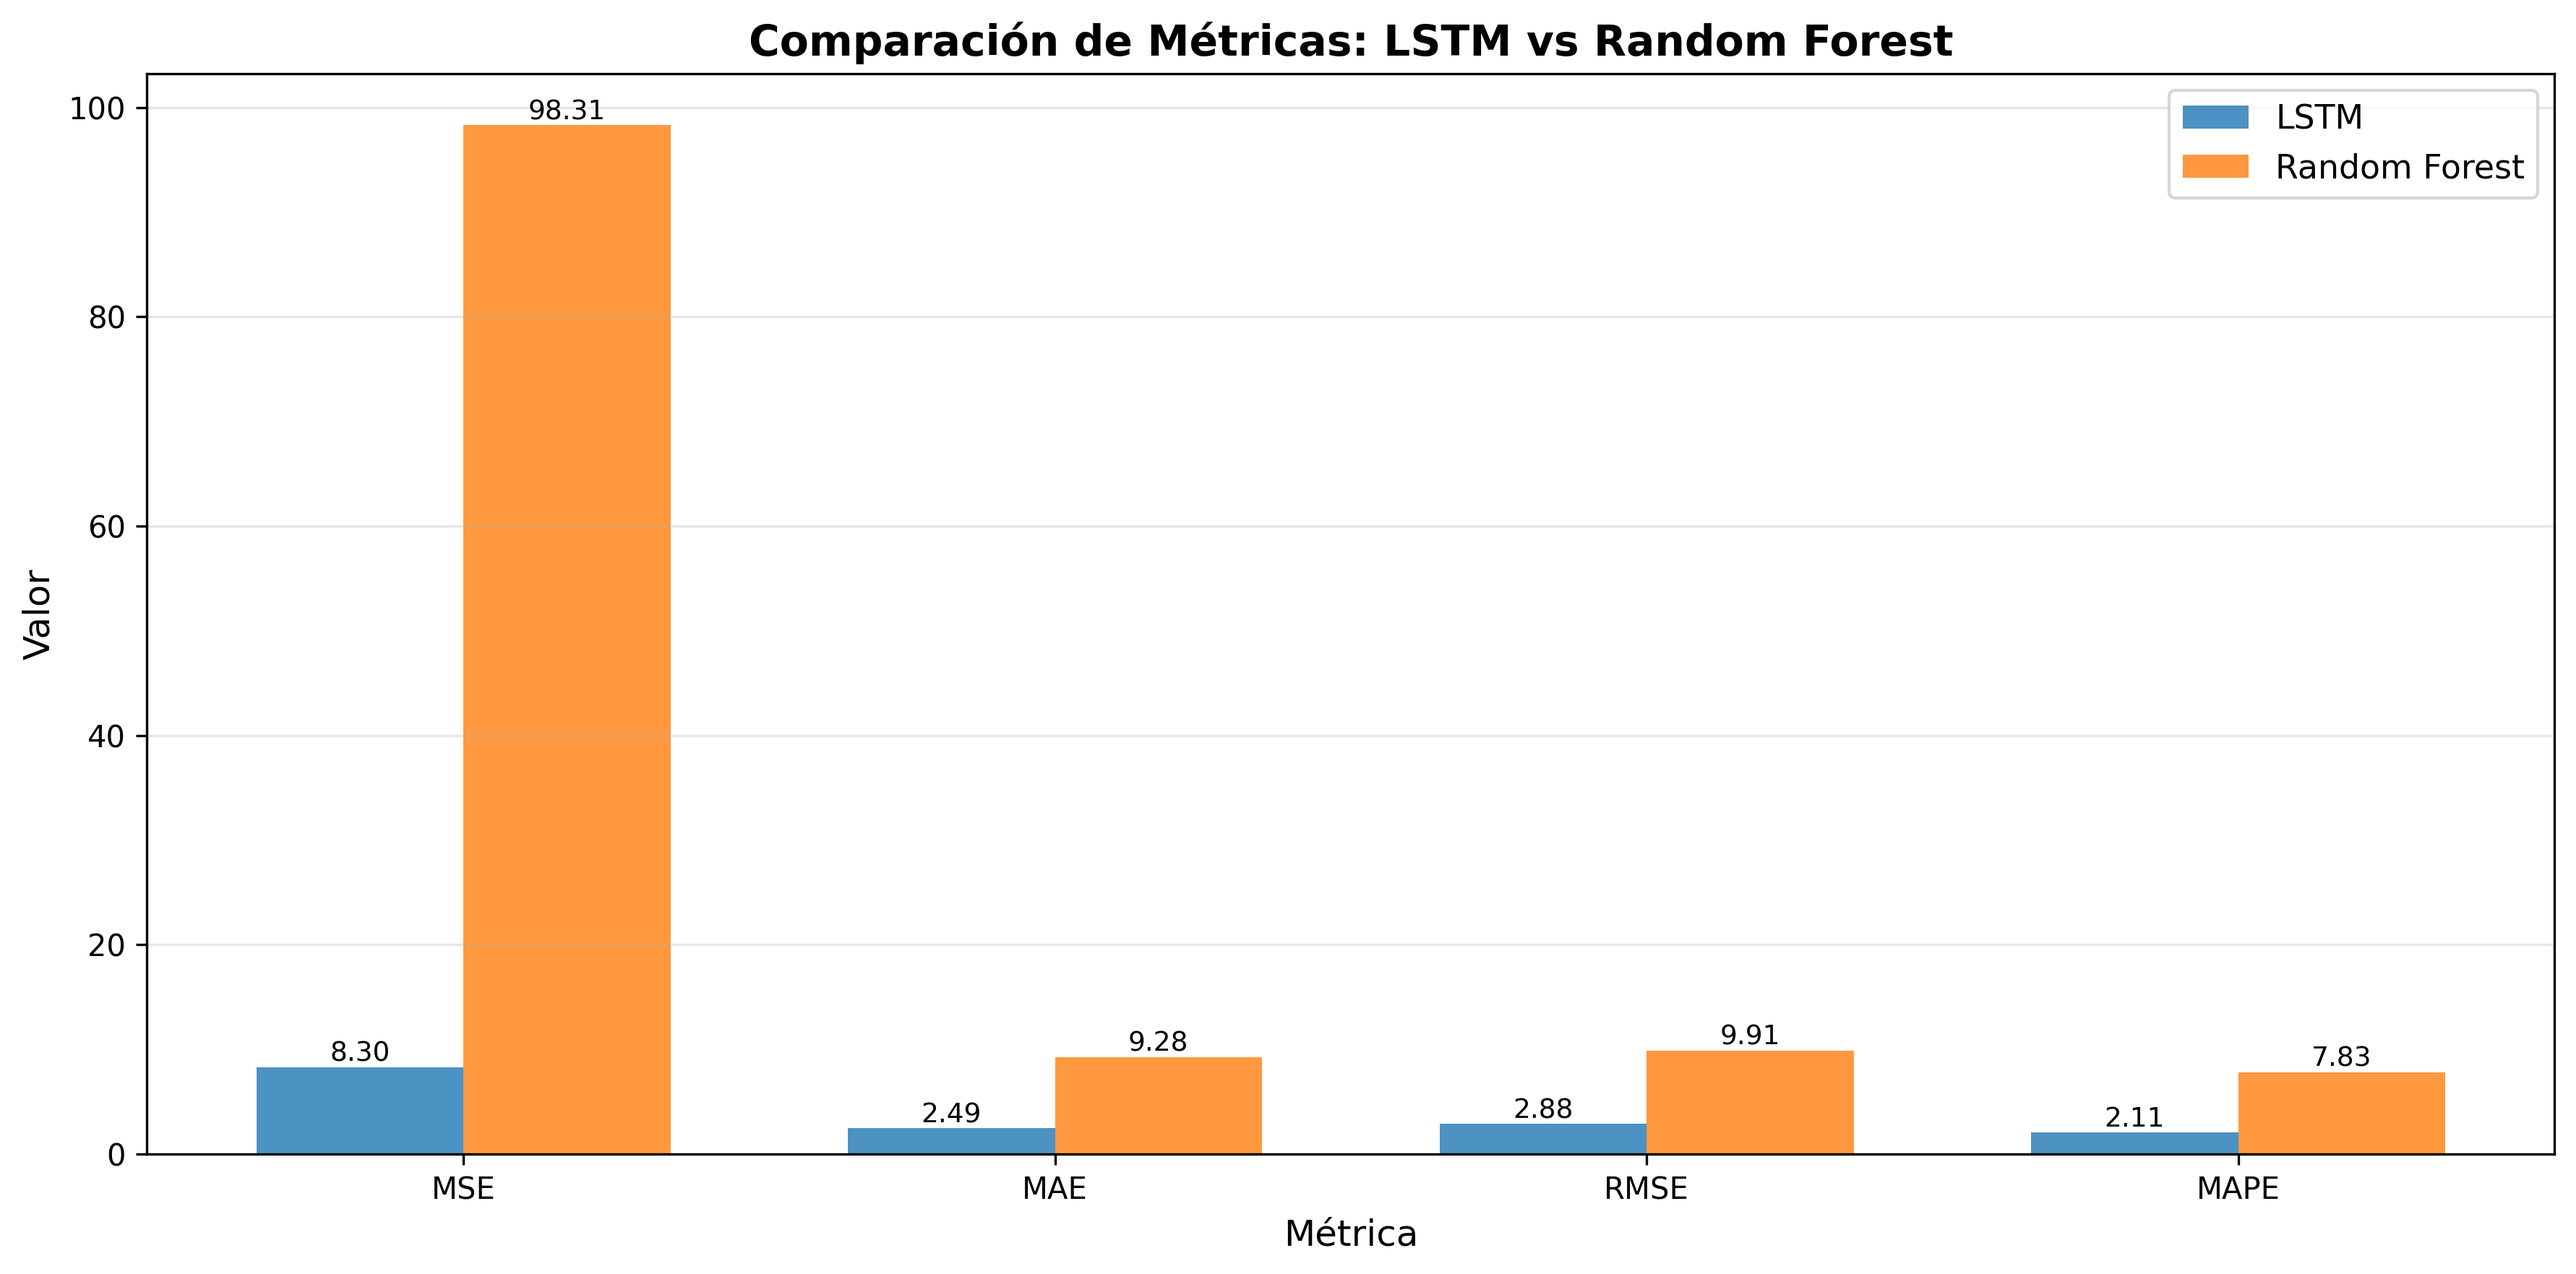
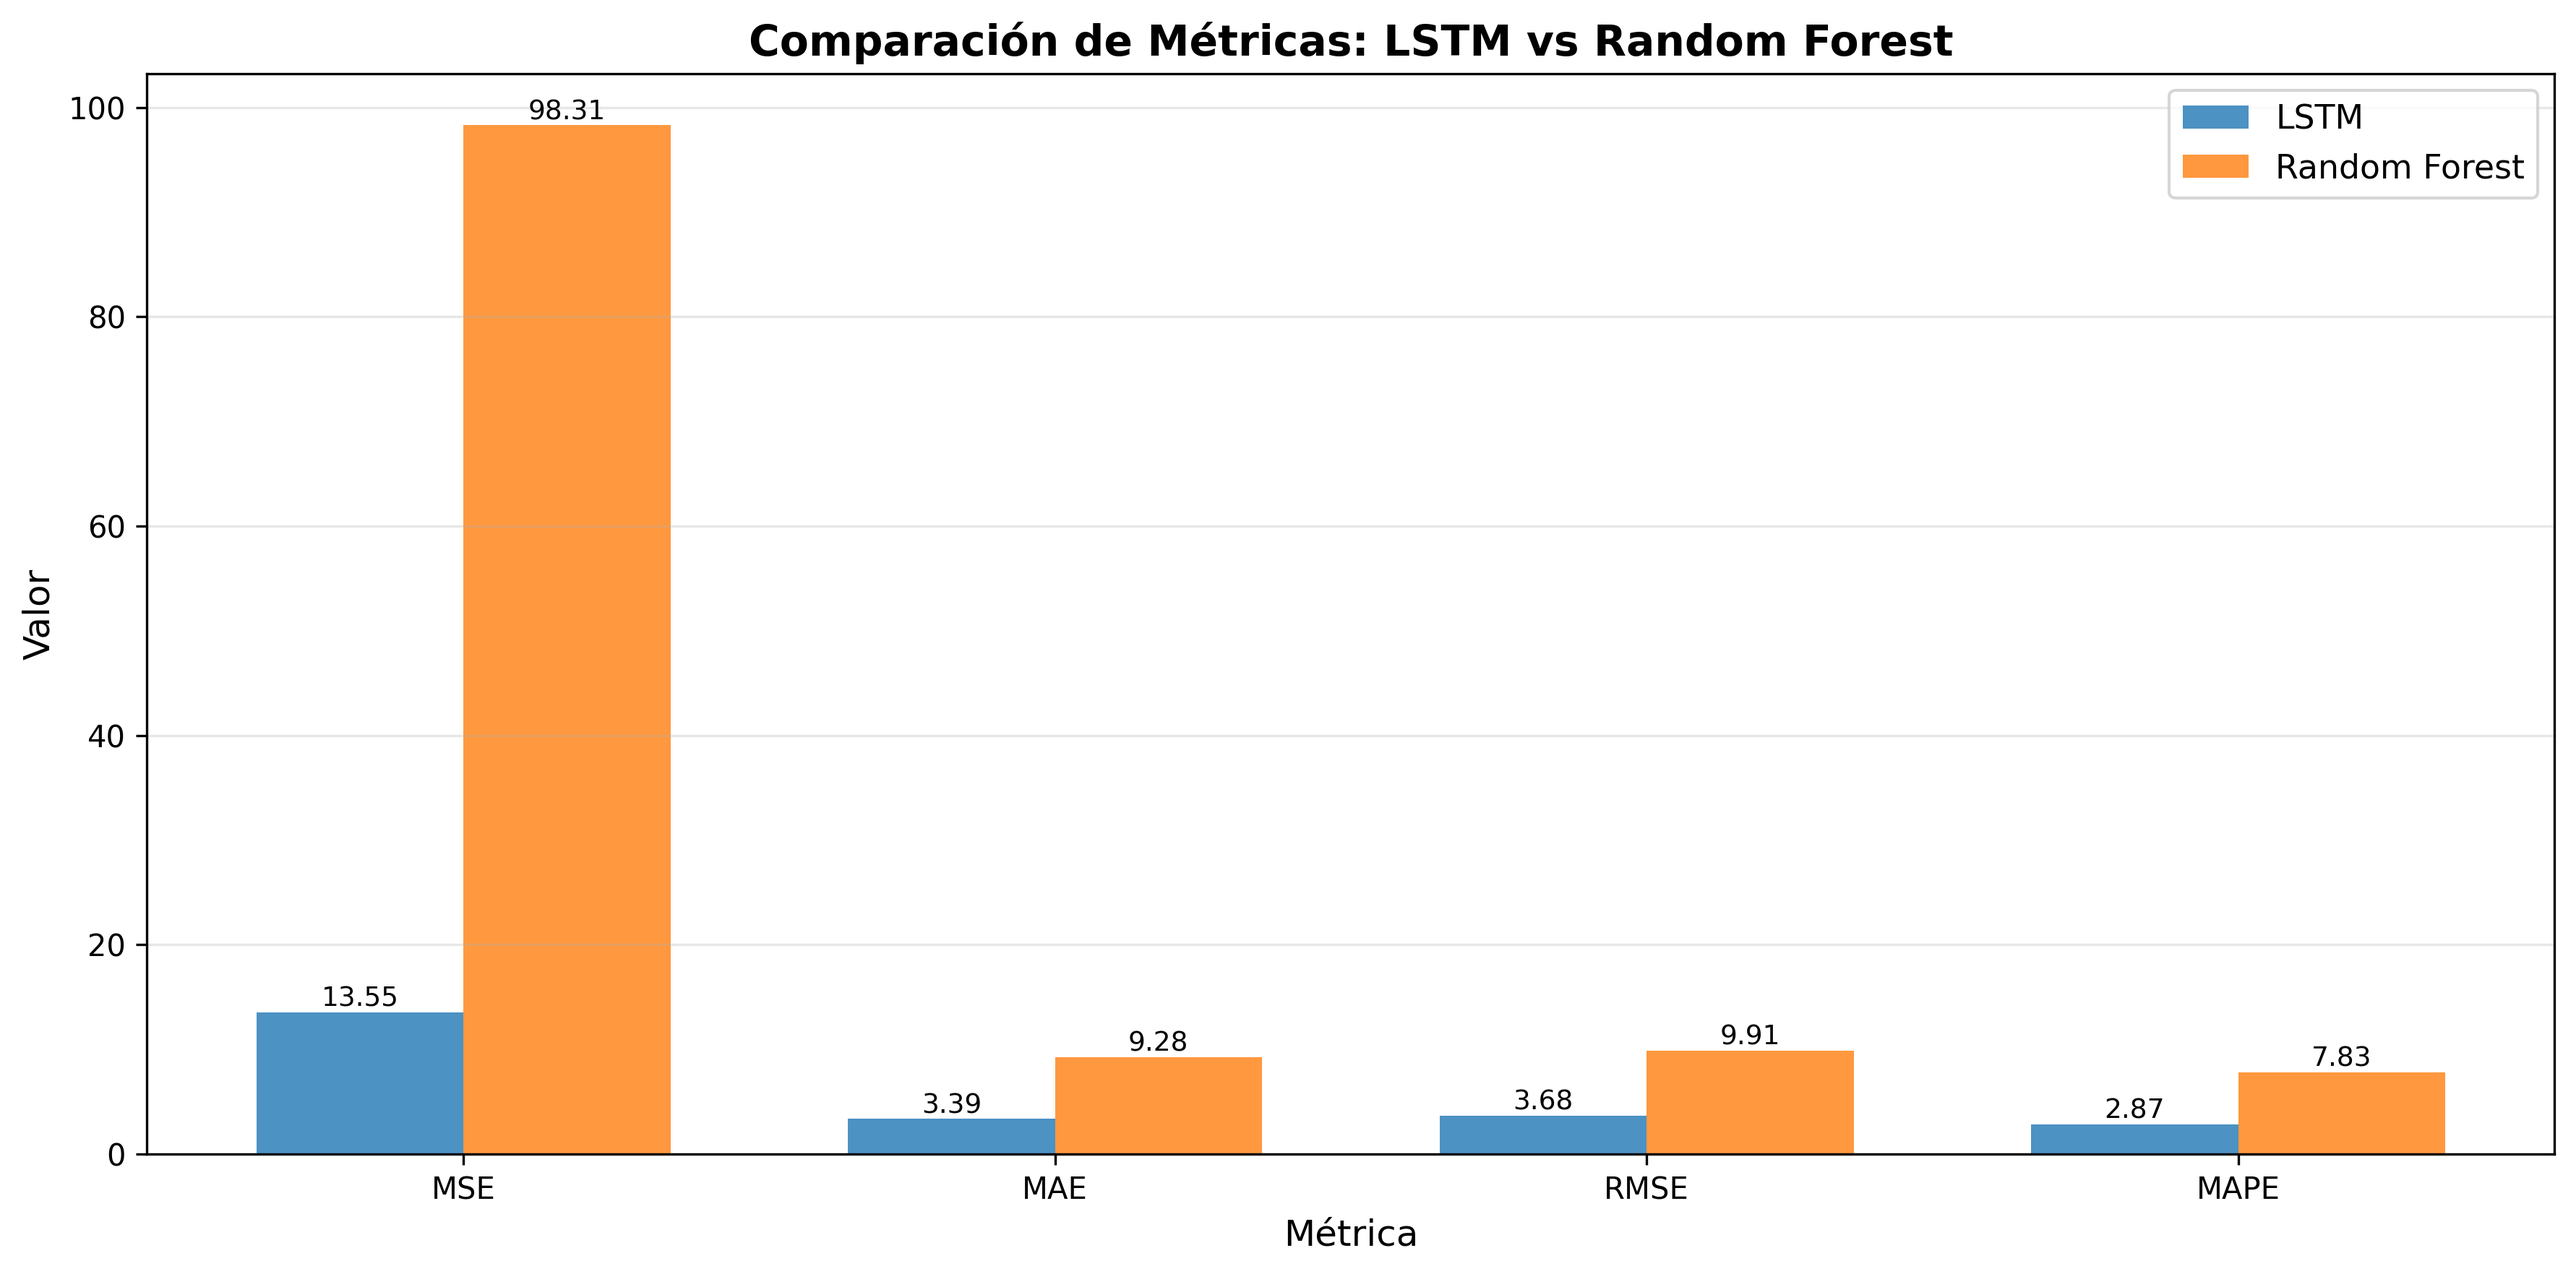
Final

diff --git a/src/preprocessing.py b/src/preprocessing.py
@@ -29,7 +29,7 @@ class DataPreprocessor:
         if data_path is None:
             # Ruta por defecto
             base_dir = os.path.dirname(os.path.dirname(os.path.abspath(__file__)))
-            data_path = os.path.join(base_dir, 'src', 'data.csv')
+            data_path = os.path.join(base_dir, 'data', 'processed', 'data.csv')
         
         self.data_path = data_path
         self.scaler_target = MinMaxScaler(feature_range=(0, 1))

diff --git a/src/main_models.py b/src/main_models.py
@@ -58,7 +58,7 @@ def main():
     
     # Cargar datos originales para fechas
     df_original = pd.read_csv(
-        os.path.join(base_dir, 'src', 'data.csv'),
+        os.path.join(base_dir, 'data', 'processed', 'data.csv'),
         parse_dates=['date'],
         index_col='date'
     )

diff --git a/README.md b/README.md
@@ -1,0 +1,112 @@
+# Food CPI Forecast with LSTM and Incidence Analysis
+
+## Overview
+This project develops an integrated framework to forecast Ecuador’s Food Consumer Price Index (CPI-Food) and diagnose the subgroups exerting the greatest inflationary pressure. It combines deep learning (LSTM) for short-term time-series forecasting with nonlinear regression (Random Forest) for incidence analysis.
+
+**Author**: Mateo Pilaquinga  
+**Institution**: Yachay Tech University, School of Mathematical and Computational Sciences  
+
+## Objectives
+1.  **Forecast**: Predict CPI-Food values for a 3-6 month horizon using a Long Short-Term Memory (LSTM) network.
+2.  **Diagnose**: Identify key drivers of food inflation (e.g., bread, cereals, meat) using a Random Forest model.
+3.  **Support Decision Making**: Provide tools for public institutions and private agents to anticipate inflation and design stabilization policies.
+
+## Data Source
+The dataset consists of official monthly series from the **National Institute of Statistics and Census (INEC)** of Ecuador.
+-   **Period**: January 2006 to October 2025 (238 observations).
+-   **Target Variable**: Food CPI (IPC-Alimentos).
+-   **Features**: Eleven COICOP food subindices (e.g., Oils & Fats, Meat, Fruits, Vegetables).
+
+## Methodology
+
+### 1. Forecasting with LSTM
+-   **Model**: Multi-step LSTM network.
+-   **Input**: Sliding temporal windows of past observations (standardized).
+-   **Output**: Joint estimation of future values (3-6 months ahead).
+-   **Performance**: The LSTM achieves low error levels (RMSE = 1.18, MAPE = 1.01% on test set), capturing trends, seasonality, and shocks effectively.
+
+### 2. Incidence Analysis with Random Forest
+-   **Model**: Random Forest regressor trained on monthly variation rates.
+-   **Goal**: Quantify the contribution of each food subgroup to the aggregate CPI variation.
+-   **Findings**: Bread and cereals, non-alcoholic beverages, and meat are the primary structural drivers, while fresh products (fruits, vegetables) show higher volatility but marginal aggregate impact.
+
+## Project Structure
+
+```
+├── data/
+│   ├── processed/      # Processed data used for modeling (data.csv)
+│   ├── ipc.csv         # Raw CPI data
+│   └── productos.csv   # Raw product subindices data
+├── src/                # Source code
+│   ├── main_models.py          # Main entry point for the pipeline
+│   ├── lstm_model.py           # LSTM model implementation
+│   ├── random_forest_model.py  # Random Forest model implementation
+│   ├── preprocessing.py        # Data cleaning and preparation modules
+│   ├── evaluation.py           # Metrics and plotting utilities
+│   └── compare_predictions.py  # Comparison script for validations
+├── notebooks/          # Jupyter notebooks for exploration
+│   ├── data_clean.ipynb        # Data cleaning process
+│   ├── eda.ipynb               # Exploratory Data Analysis
+│   └── future_eng.ipynb        # Feature engineering experiments
+├── docs/               # Documentation
+│   ├── clean_process.md        # Details on data cleaning
+│   ├── description_variables.md # Variable dictionary
+│   └── report_results.md       # Detailed model results
+├── models/             # Directory for saved models (.h5, .pkl)
+├── results/            # Generated metrics and predictions (.csv, .json)
+├── figs/               # Generated plots and visualizations
+└── requirements.txt    # Python dependencies
+```
+
+## Installation
+
+1.  Clone the repository:
+    ```bash
+    git clone https://github.com/BrDenky/CFBPredic.git
+    cd CFBPredic
+    ```
+
+2.  Create a virtual environment (optional but recommended):
+    ```bash
+    python -m venv venv
+    # Windows
+    .\venv\Scripts\activate
+    # Linux/Mac
+    source venv/bin/activate
+    ```
+
+3.  Install dependencies:
+    ```bash
+    pip install -r requirements.txt
+    ```
+
+## Usage
+
+To run the complete pipeline (preprocessing, training, evaluation, and visualization), execute the main script:
+
+```bash
+python src/main_models.py
+```
+
+This will:
+1.  Load and preprocess the data from `data/processed/data.csv`.
+2.  Train the LSTM model for forecasting.
+3.  Train the Random Forest model for feature importance.
+4.  Generate plots in `figs/` and save metrics in `results/`.
+5.  Save trained models in `models/`.
+
+## Results Summary
+
+| Model | Metric | Value | Interpretation |
+| :--- | :--- | :--- | :--- |
+| **LSTM** | RMSE | **1.18** | High accuracy, error magnitude close to index scale (~1 point) |
+| **LSTM** | MAPE | **1.01%** | Excellent relative accuracy (<5%) |
+| Random Forest | RMSE | 9.91 | Used for explanatory purposes (incidence), not forecasting |
+
+**Key Inflation Drivers (Random Forest Importance)**:
+1.  Bread and Cereals (~17%)
+2.  Non-alcoholic Beverages (~16%)
+3.  Meat (~14.6%)
+
+## License
+[MIT License](LICENSE) (or specify appropriate license)
